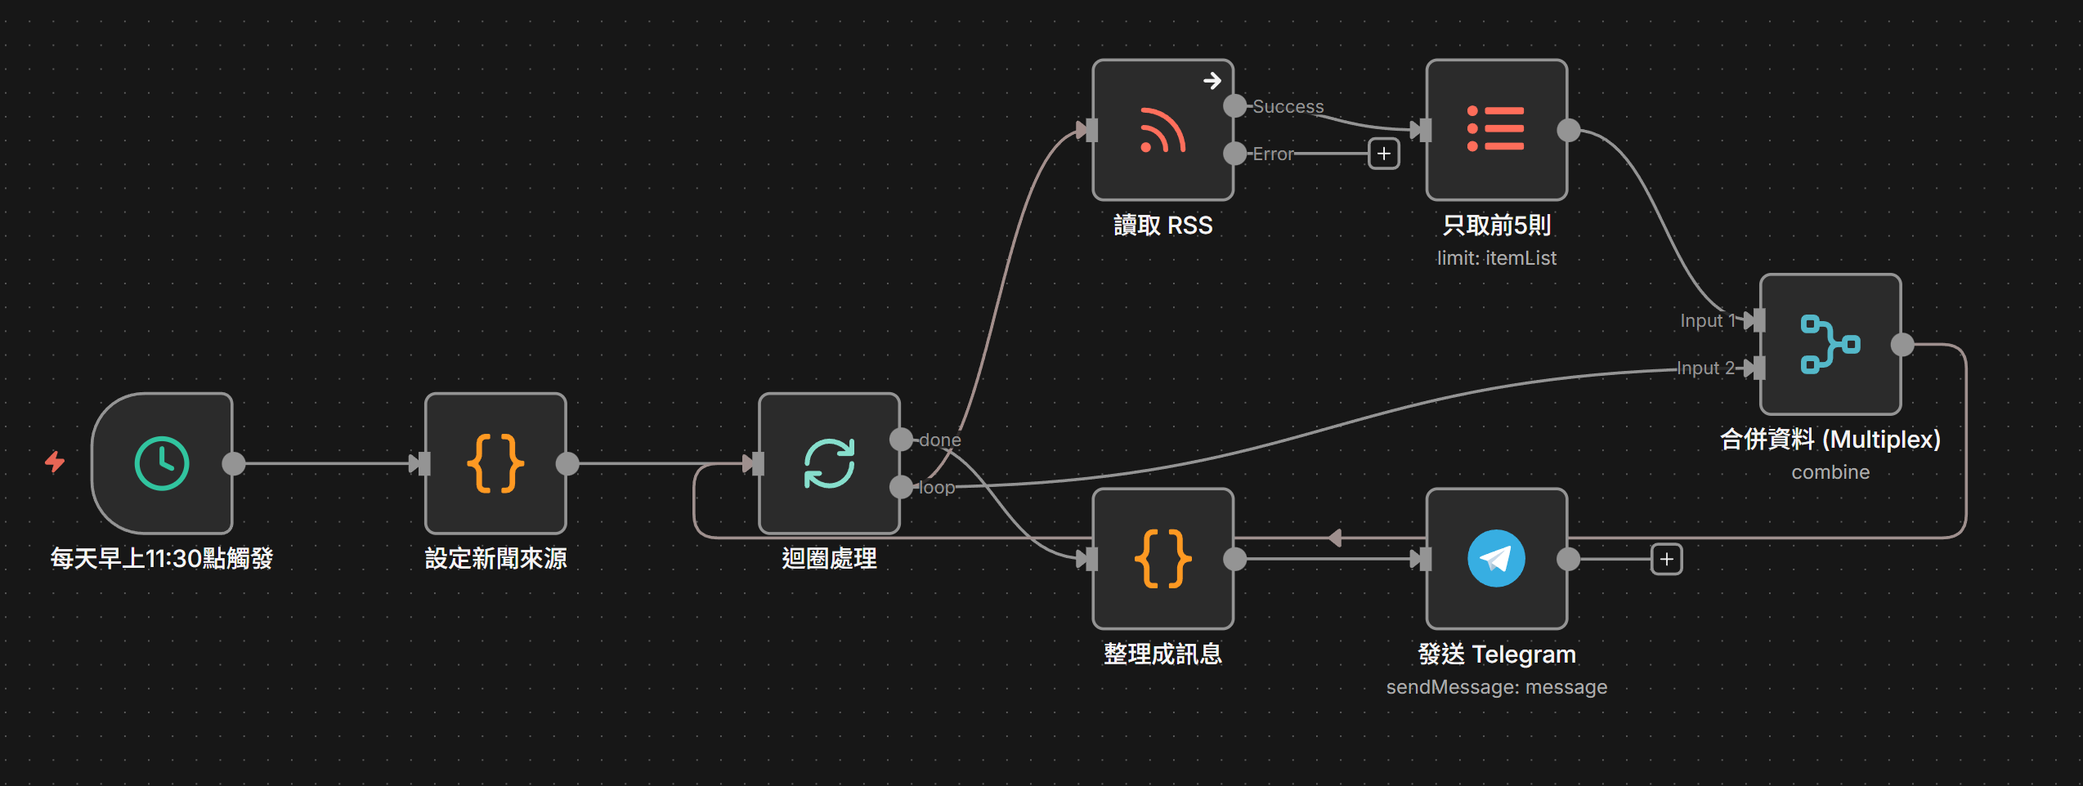
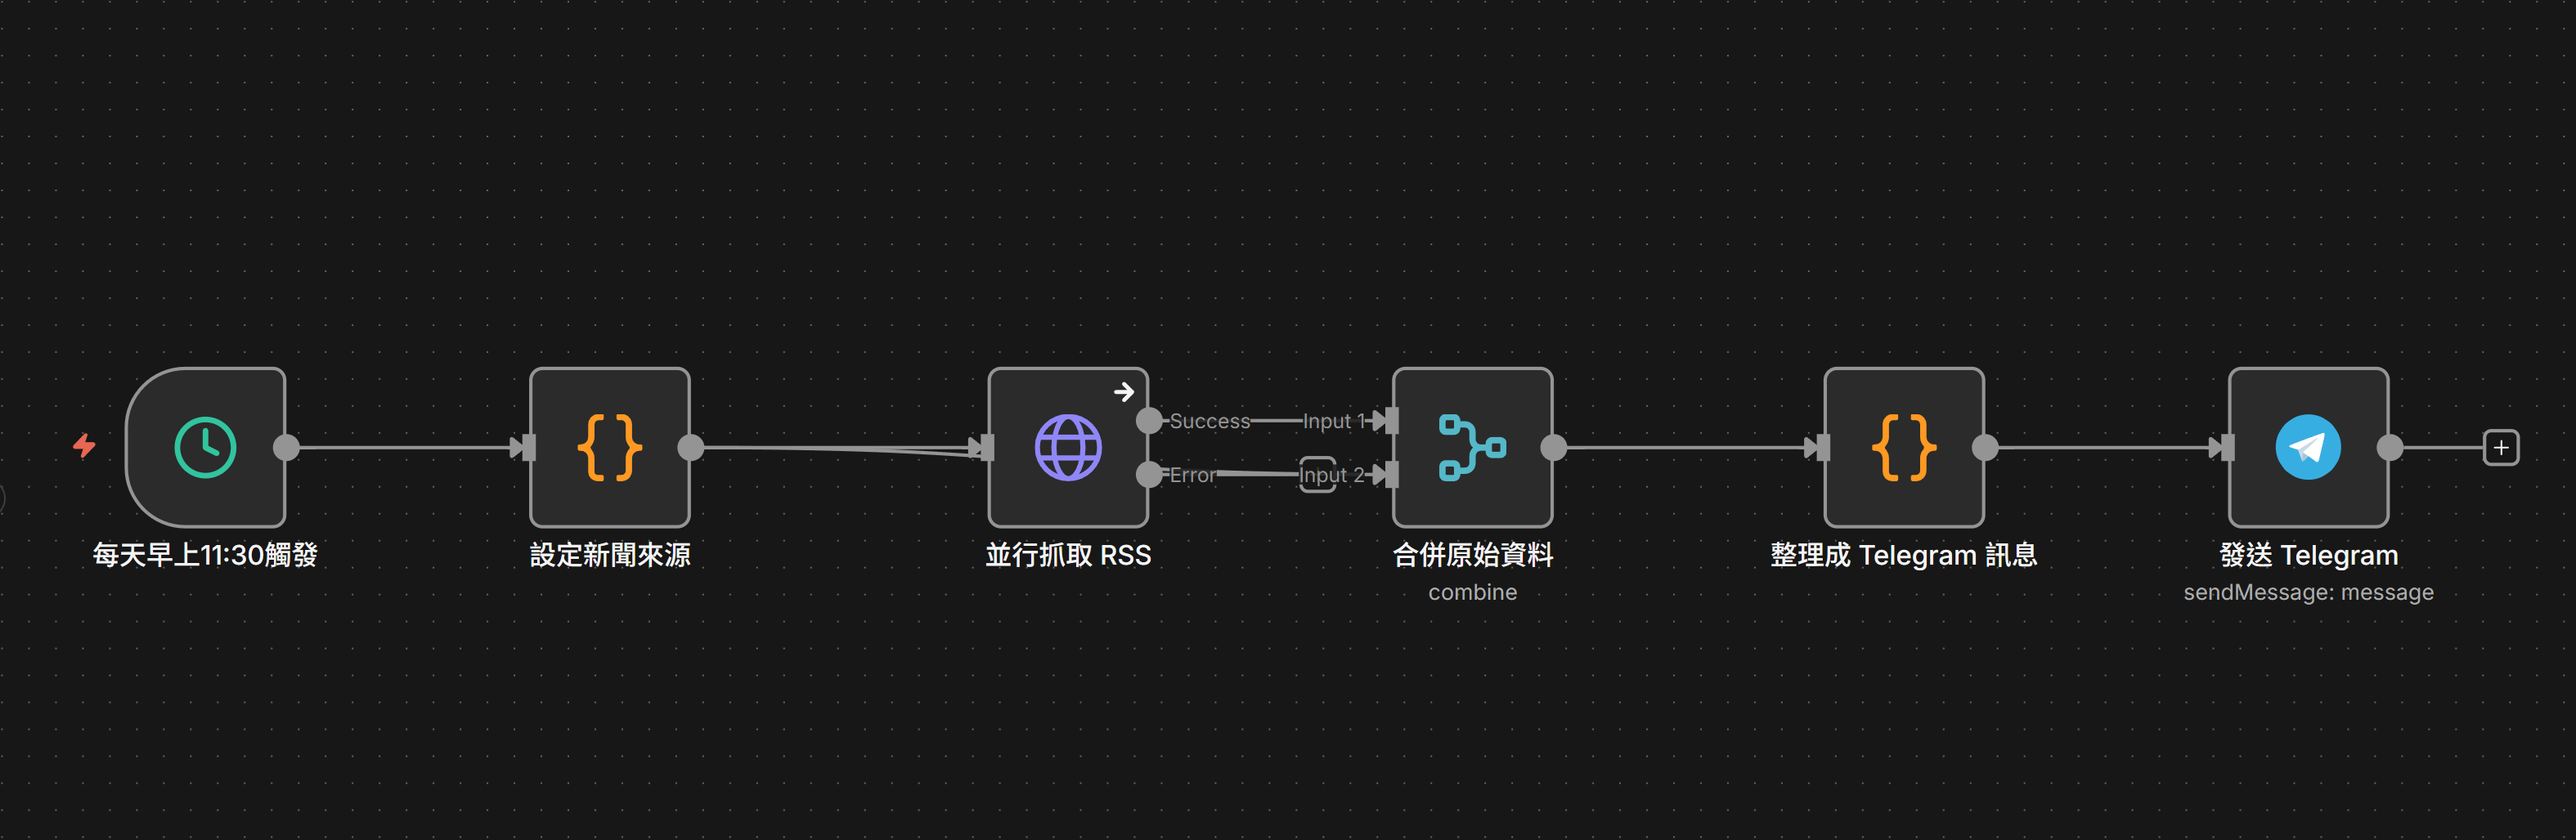
Add files via upload

diff --git a/README.md b/README.md
@@ -1,128 +1,146 @@
-# 📰 Daily News Feed – 自動化多來源新聞摘要推播（n8n Workflow）
+# 📰 Daily News Feed – 多來源新聞自動摘要推播（n8n Workflow）
 
-這是一個建構在 **n8n** 上的每日新聞摘要推播流程。會自動從多個 RSS 來源抓取最新新聞，依分類整理後，以 Markdown 格式推送到 Telegram。使用相同邏輯，也可以改為 html 格式，以 Email 電子報形式寄出。版面配置、新聞來源與種類都可以自訂。
+此 workflow 建構於 **n8n**，可每天自動從多個 RSS 來源並行抓取新聞、解析 XML、依分類整理，再以 Markdown 形式推送至 Telegram。  
+無需外部 RSS 套件，所有邏輯完全由 Code Node 控制，速度快且可自由擴充。
 
 ---
 
 ## ✨ 功能特色
 
-### 🔗 多來源 RSS 聚合
-- 支援多組 RSS Feed
-- 自動依分類整理（如頭條焦點、科技新知）
-- 每個來源擷取最新 **5 則** 新聞
+### 🚀 並行抓取 RSS
+- 使用 **HTTP Request Node** 一次處理所有來源
+- 不受單一來源延遲拖累
+- 支援 timeout 與錯誤不中斷
 
-### 🧠 智慧分類與格式化
-- 來源列表由 Code Node 定義（含 URL、分類、mySource）
-- 自動合併所有來源的新聞
-- 以乾淨易讀的 Markdown 推送
+### 🧠 自動分類整理
+- 所有來源由 Code Node 定義：`category / mySource / url`
+- 每來源最多擷取 **5 則最新新聞**
+- 自動清理標題中的特殊符號、避免 Markdown 格式破壞
 
-### 🤖 每日定時推播
-- 每天早上 **11:30** 自動推播
-- 支援 Telegram 推送
+### 📝 Telegram Markdown 排版
+自動產生乾淨的訊息格式：
+
+```
+*💻 科技新知*
+
+1. [標題](連結) - _iThome_
+2. [另一則新聞](連結) - _TechNews_
+```
+
+每個分類會獨立推送一則訊息。
+
+### ⏰ 每日定時推播
+- 每天 **11:30** 自動發送
+- 若要改時間可直接編輯 ScheduleTrigger 節點
 
 ---
 
 ## 🖼 截圖
 [![Workflow 截圖](/workflow.png)](/workflow.png)
-
 ---
-
 [![Telegram 截圖](/telegram.png)](/telegram.png)
 
 ---
 
 ## 🧱 Workflow 節點架構總覽
 
-### 1⃣ 排程觸發
-節點：**每天早上11:30點觸發**
-- 每天固定時間啟動流程。
+### 1⃣ 每日排程
+**每天早上11:30觸發**
+- 啟動整個新聞推播流程
 
-### 2⃣ 定義新聞來源
-節點：**設定新聞來源**
-- 使用 Code Node 回傳一組 RSS 來源清單。
-- 格式包含：`category`、`mySource`、`url`。
+---
 
-來源範例：
-- 🔥 頭條焦點：聯合新聞、中央社
-- 💻 科技新知：iThome、TechNews、Inside
+### 2⃣ 定義新聞來源  
+**設定新聞來源（Code Node）**
+- 回傳一組來源列表，每筆包含：
 
-### 3⃣ 迴圈逐一讀取來源
-節點：**迴圈處理 (SplitInBatches)**
-- 每次處理一筆來源 URL。
+```json
+{
+  "category": "💻 科技新知",
+  "mySource": "TechNews",
+  "url": "https://technews.tw/tn-rss/"
+}
+```
 
-### 4⃣ 讀取 RSS
-節點：**讀取 RSS**
-- 自動抓取 RSS feed 資料。
-- 錯誤不中斷（continue on error）。
+你可以自由新增或刪除任何來源。
 
-### 5⃣ 限制為最新 5 則
-節點：**只取前5則**
-- 避免產生過多內容。
+---
 
-### 6⃣ 合併新聞資料
-節點：**合併資料 (Multiplex)**
-- 將所有來源的資料一次合併，供後續清理與格式化。
+### 3⃣ 並行抓取 RSS  
+**並行抓取 RSS（HTTP Request）**
+- 對所有來源同時發起 HTTP GET
+- 回傳原始 XML 字串供後續解析
+- 問題來源不會中斷流程（continue on error）
 
-### 7⃣ 整理成 Markdown 訊息
-節點：**整理成訊息**
-- 將所有資料依分類分組。
-- 每組最多顯示 15 則。
-- 轉換成 Telegram Markdown 格式：
-  ```
-  1. [標題](連結) - _來源_
-  ```
-- 自動排版、清理標題中不必要符號。
+---
 
-### 8⃣ 推送到 Telegram
-節點：**發送 Telegram**
-- 每個分類各發送一則訊息。
-- 支援 Markdown 樣式。
+### 4⃣ 合併原始資料  
+**合併原始資料（Merge）**
+- 將來源資訊與 RSS 回應合併成單一資料流
+
+---
+
+### 5⃣ 解析 XML + 整理成訊息  
+**整理成 Telegram 訊息（Code Node）**
+
+功能包含：
+
+- 使用正則表達式解析 `<item>` 區塊
+- 擷取：`title`、`link`、來源名稱
+- 每來源最多 5 則
+- 依 category 分組
+- 組裝成乾淨的 Markdown 訊息
+
+---
+
+### 6⃣ 推送到 Telegram  
+**發送 Telegram**
+- 將整理後的每個分類訊息分別推送到你的 Chat ID
+- 使用 Markdown 模式呈現更好閱讀的格式
 
 ---
 
 ## 🚀 使用方式
 
 ### 1⃣ 匯入 workflow JSON
-將 `Daily News Feed.json` 匯入 n8n。
+匯入 `Daily News Feed.json`。
 
-### 2⃣ 設定 Telegram Chat ID
-至節點 **發送 Telegram** 修改：
+### 2⃣ 設定 Telegram Chat ID  
+在 **發送 Telegram** 節點修改：
+
 ```
 chatId: <你的 Chat ID>
 ```
 
-### 3⃣ 新增 / 編輯新聞來源
-於節點 **設定新聞來源** 中修改：
+### 3⃣ 新增 / 編輯新聞來源  
+修改 **設定新聞來源** 節點內的陣列：
+
 ```js
 {
-  json: {
-    category: "💻 科技新知",
-    mySource: "TechNews",
-    url: "https://technews.tw/tn-rss/"
-  }
+  category: "🌏 國際財經",
+  mySource: "中央社國際",
+  url: "https://feeds.feedburner.com/rsscna/intworld"
 }
 ```
 
 ---
 
-## 📩 推播訊息示例
-Telegram 會收到如下格式：
+## 📩 推播示例
 
 ```
 🔥 頭條焦點
 
 1. [重大新聞標題](https://example.com) - _聯合頭條_
-2. [另一則新聞](https://example.com) - _中央社_
+2. [另一則新聞](https://example.com) - _中央社政治_
 ```
 
 ---
 
 ## 📬 聯絡作者
-若你對 n8n、AI、自動化整合有興趣，歡迎交流：
+若你對 n8n、自動化、AI 整合有興趣，歡迎交流：
 
 - GitHub：[@JoshuaWang2211](https://github.com/JoshuaWang2211)
 
 ---
 
-本 workflow 由 Joshua Wang 製作，旨在自動化新聞摘要推播，適合每日追蹤新聞、整理資訊、或延伸至個人化內容聚合應用。
-
+本 workflow 旨在提供快速、乾淨、可客製化的每日新聞摘要推播，可作為 Email 電子報、多平台推播或個人化內容聚合的基礎。
